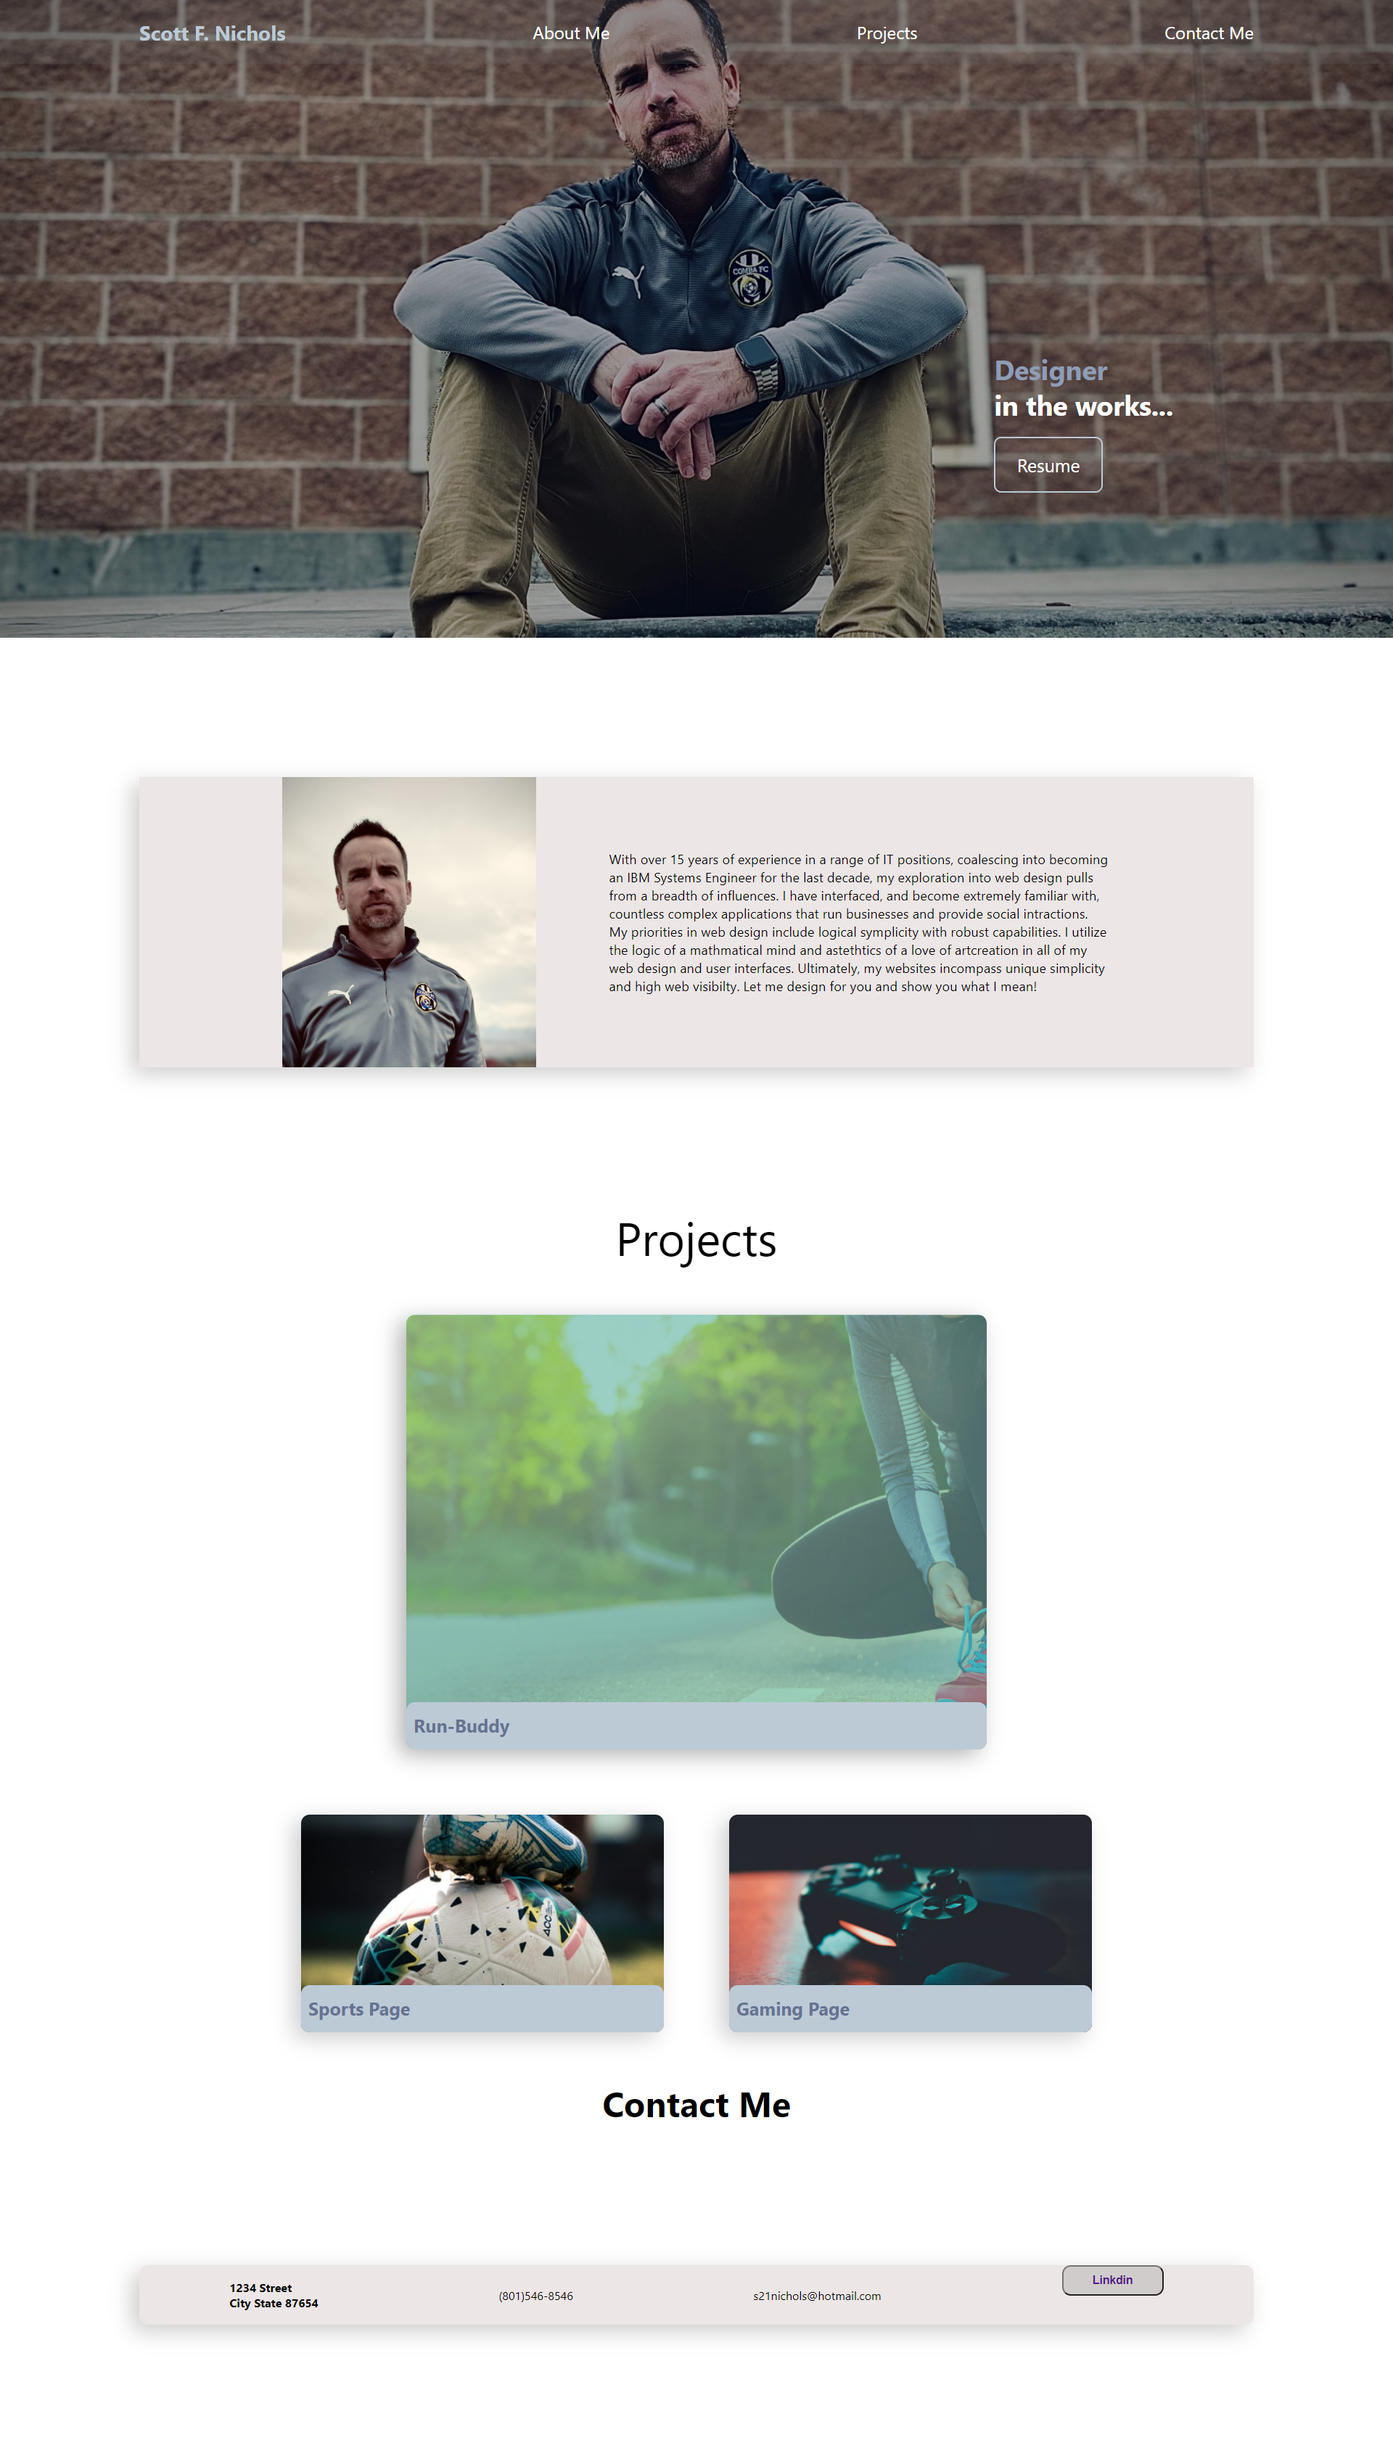
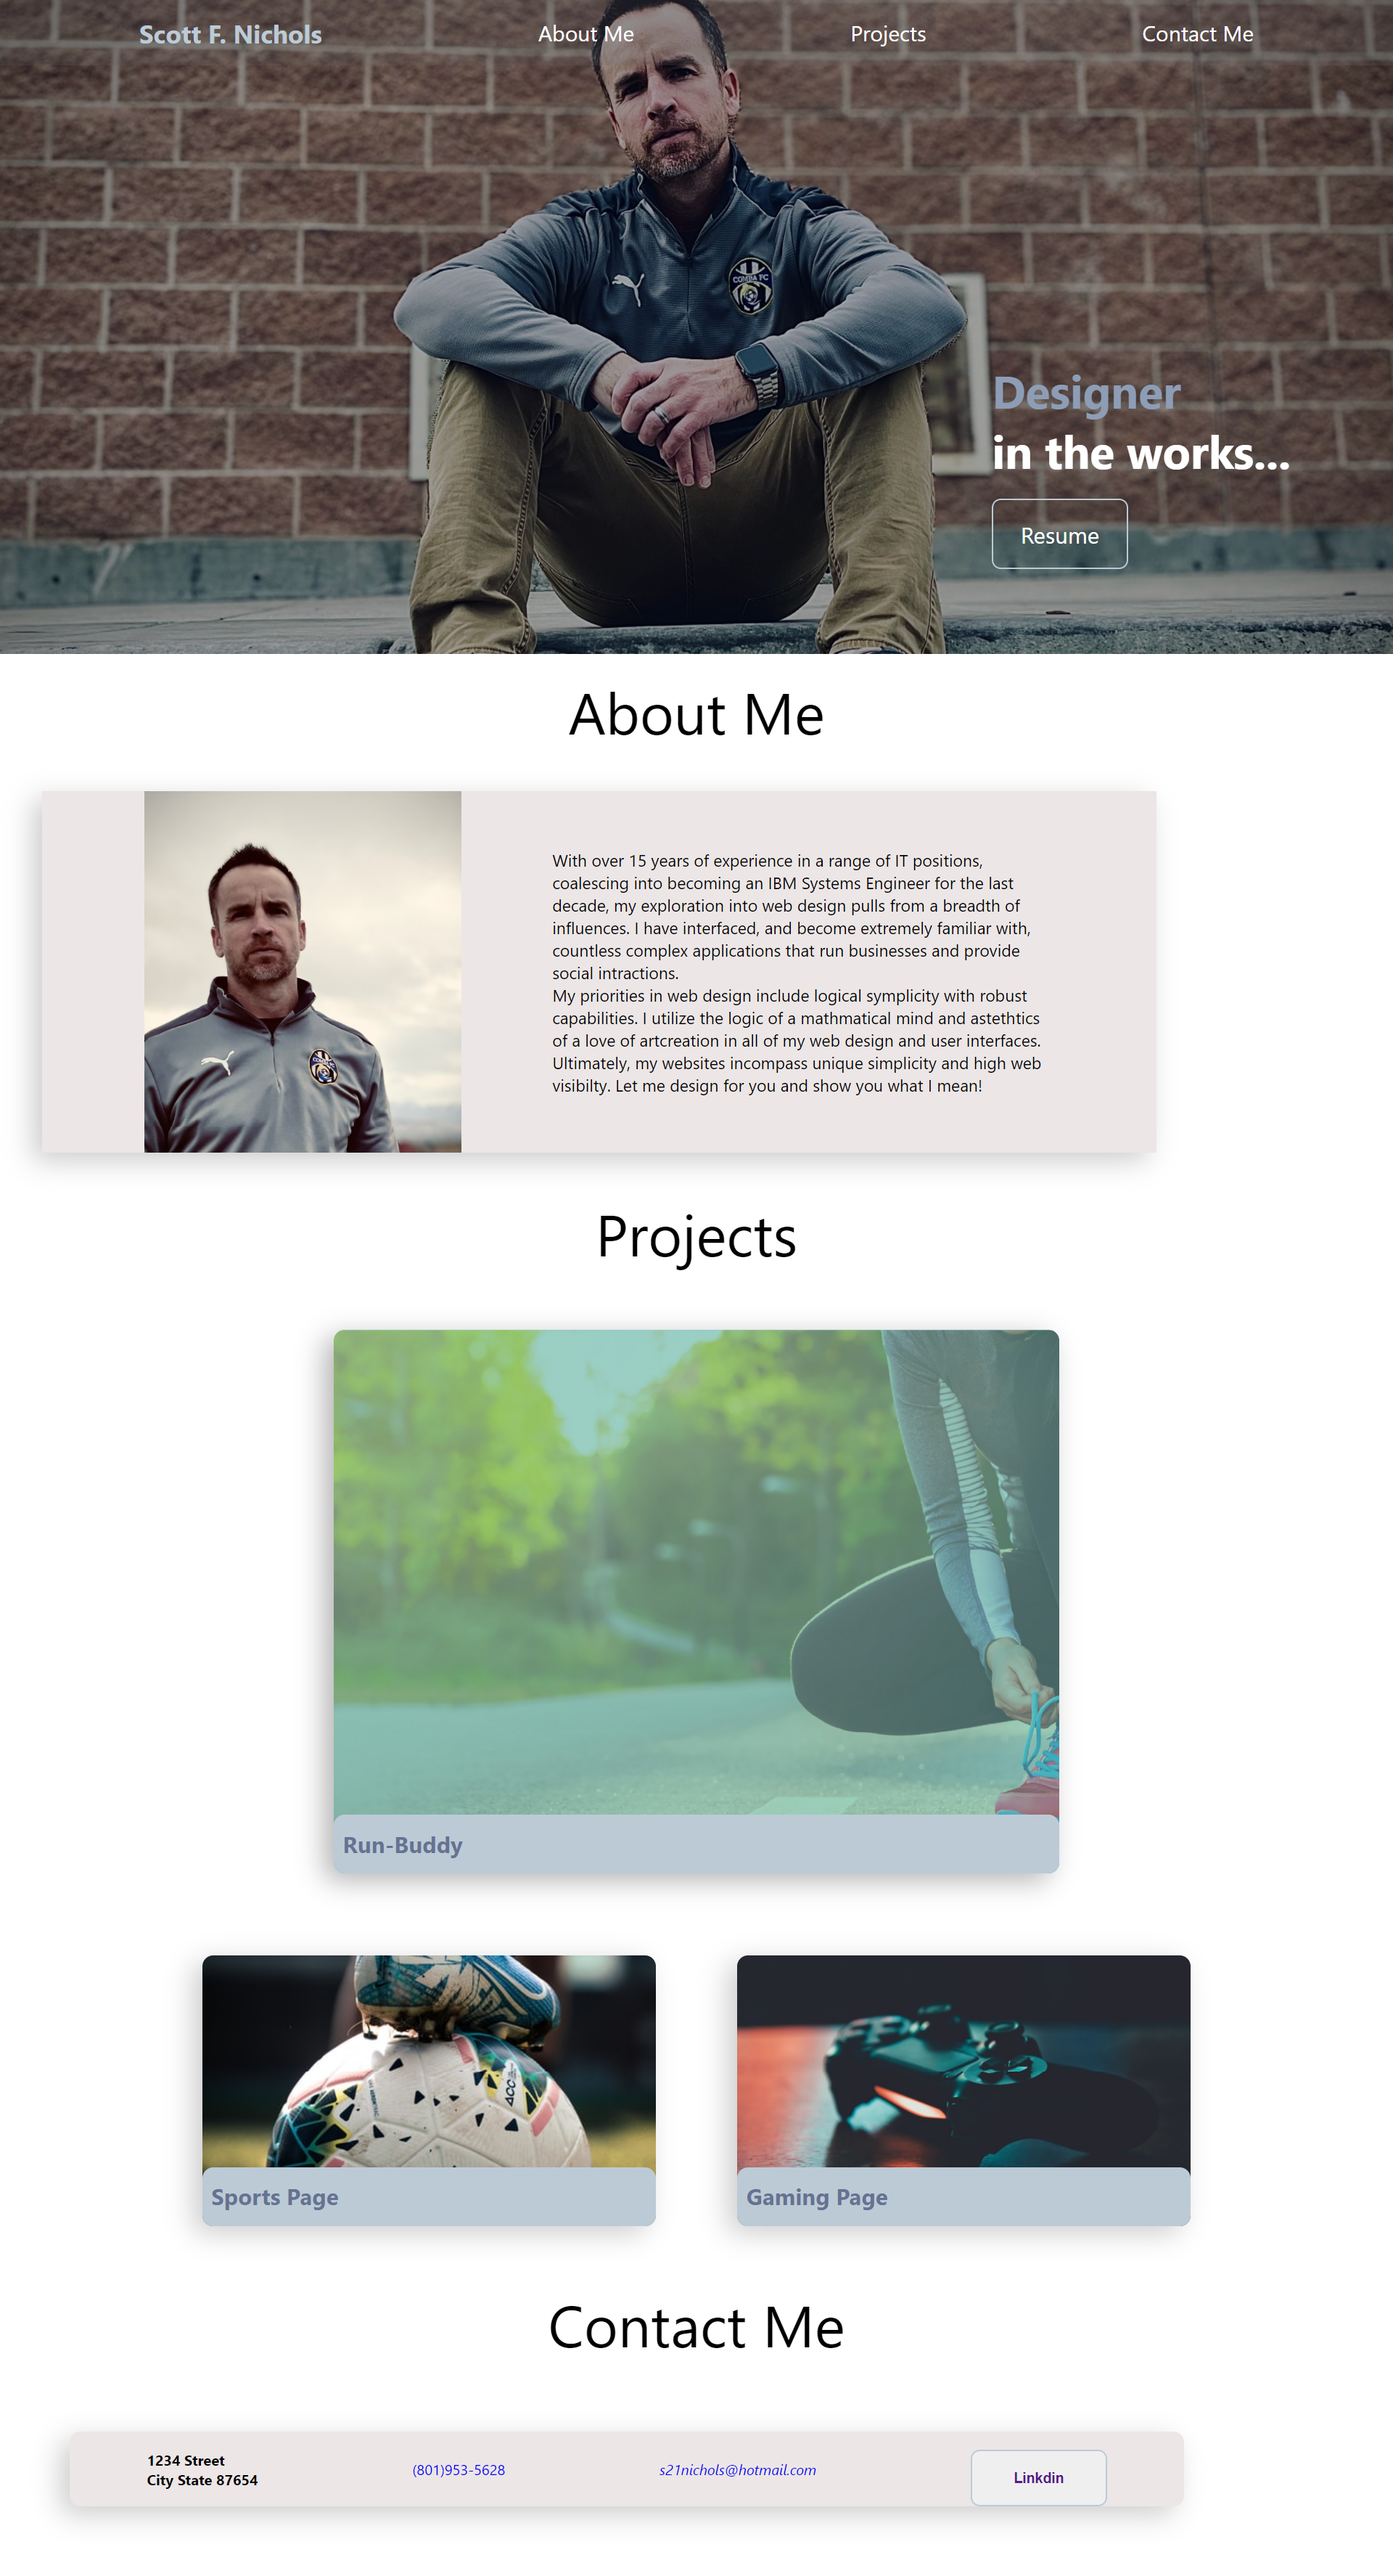
added ring-builder project to app

diff --git a/index.html b/index.html
@@ -92,6 +92,25 @@
                 <div class="projects-header">Projects</div>
                 <section class="project-main">
                     <div class="project-item">
+                        <div class="project-ring-builder"><span role="img" aria-label="Dramatic pair of rings on a table"></span>
+                            <div class="text-container">
+                                <h2 class="name">Ring-Builder</h2>
+                                <article class="content">
+                                    <p>
+                                        My latest project is this Ring-Builder application created by myself and 2 others for a company called Bella Rubby Jewelry. It alows a user to pick from a variety of bands and stones to customize a one-of-a-kind ring.
+                                    </p>
+                                </article>
+                                <button class="button">
+                                    <a href= "https://ring-builder-app.herokuapp.com/">
+                                        <h3>View Page</h3>
+                                    </a>
+                                </button>
+                            </div>
+                        </div>
+                    </div>
+                </section>
+                <section class="projects">
+                    <div class="project-item">
                         <div class="project-run-buddy"><span role="img" aria-label="Runner lacing up shoe."></span>
                             <div class="text-container">
                                 <h2 class="name">Run-Buddy</h2>
@@ -108,12 +127,9 @@
                                         <h3>View Page</h3>
                                     </a>
                                 </button>
-                             </div>
+                                </div>
                         </div>
                     </div>
-                </section>
-
-                <section class="projects">  
                     <div class="project-item">
                         <div class="project-sports"><span role="img" aria-label="Soccer cleat on soccer ball."></span>
                             <div class="text-container">

diff --git a/assets/css/style.css b/assets/css/style.css
@@ -198,16 +198,29 @@ li a {
     flex-flow: wrap;
 }
 
-.project-run-buddy {
+.project-ring-builder {
     width: 800px;
     height: 600px;
+    background: #fff;
+    position: relative;
+    margin: 45px;
+    background-image: url(../images/Landing-Screenshot.png);
+    background-size: cover;
+    background-position:left;
+    box-shadow: -10px 8px 30px rgba(0, 0, 0, 0.3);
+    border-radius: 12px;
+}
+
+.project-run-buddy {
+    width: 500px;
+    height: 300px;
     background: #fff;
     position: relative;
     margin: 45px;
     background-image: url(../images/hero-bg.jpg);
     background-size: cover;
     background-position: center;
-    box-shadow: -10px 8px 30px rgba(0, 0, 0, 0.3);
+    box-shadow: -10px 8px 30px rgba(0, 0, 0, 0.2);
     border-radius: 12px;
 }
 
@@ -315,18 +328,30 @@ li a {
         background-color: rgba(0, 0, 0, 0.6);
     }
 
-    .project-run-buddy {
+    .project-ring-builder {
         width: 175px;
         height: 200px;
+        background: #fff;
+        position: relative;
+        margin: 45px;
+        background-image: url(../images/Landing-Screenshot.png);
+        background-size: cover;
+        background-position: left;
+        box-shadow: -10px 8px 30px rgba(0, 0, 0, 0.3);
+        border-radius: 12px;
+    }
+    .project-run-buddy {
+        width: 150px;
+        height: 300px;
         background: #fff;
         position: relative;
         margin: 45px;
         background-image: url(../images/hero-bg.jpg);
         background-size: cover;
         background-position: center;
-        box-shadow: -10px 8px 30px rgba(0, 0, 0, 0.3);
+        box-shadow: -10px 8px 30px rgba(0, 0, 0, 0.2);
         border-radius: 12px;
-    }
+    }    
     .project-sports {
         width: 150px;
         height: 300px;
